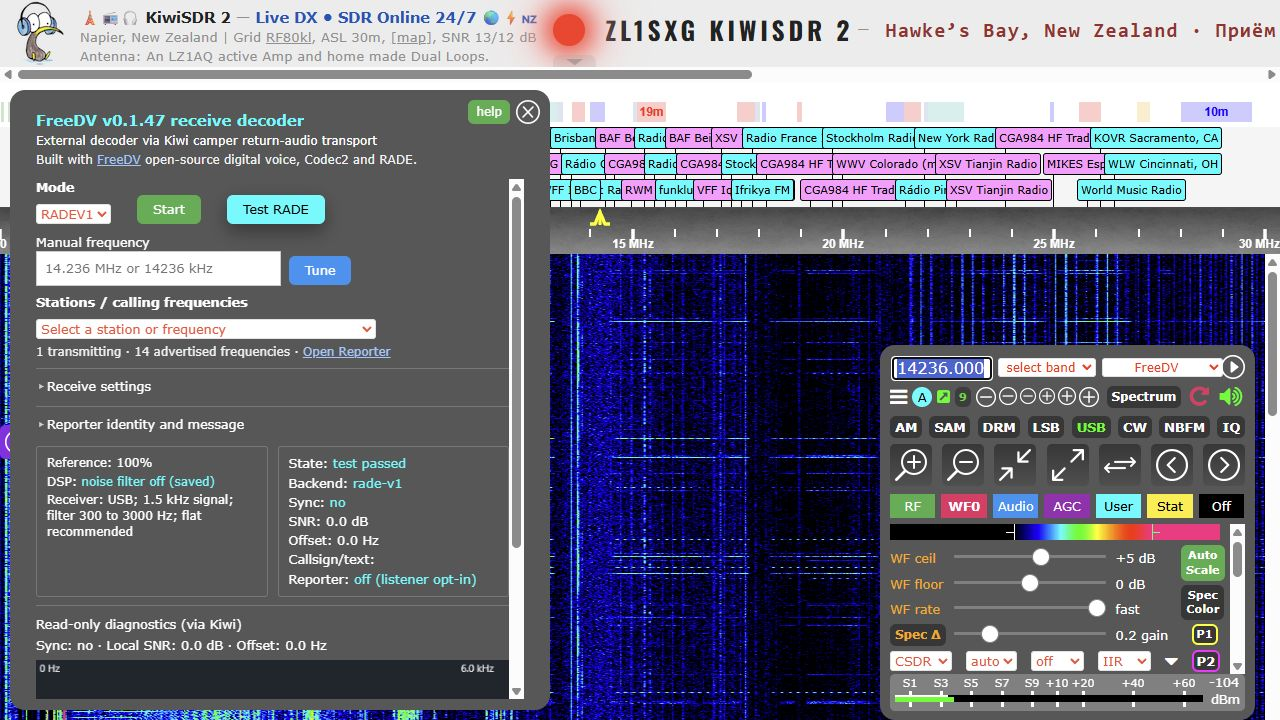
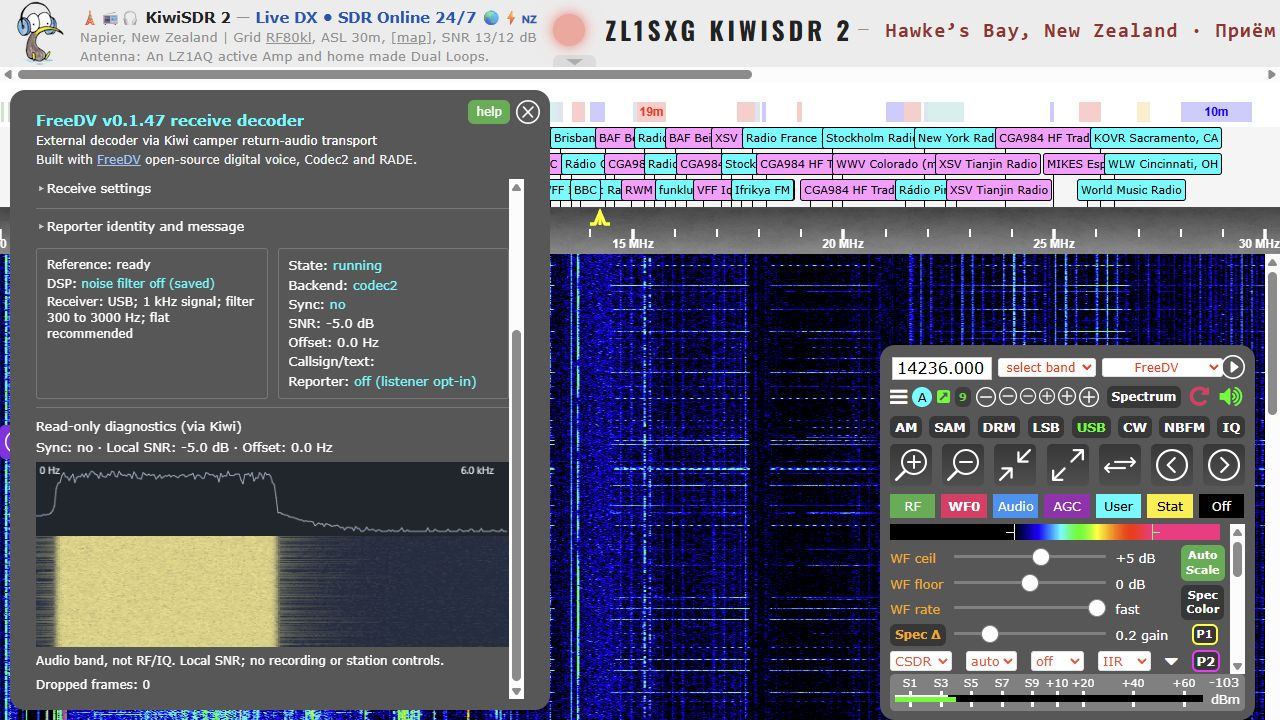
Record proxy browser acceptance and ten-minute stability evidence

diff --git a/docs/deployment-status.md b/docs/deployment-status.md
@@ -14,26 +14,54 @@ and no AI-64 local-decoder service is enabled.
 ## Live state
 
 - KiwiSDR 2 firmware: 1.902
-- active Kiwi release: `freedv-v0-1-46`
+- active Kiwi release: `freedv-v0-1-47`
 - active Kiwi SHA-256:
[1 lines of base64/hex data omitted]
-- Kiwi BuildID: `fbd7edd4821b88eb6e7fbe94f231bef5c2353615`
[1 lines of base64/hex data omitted]
+- Kiwi BuildID: `aa07cfec13efa566dcee38843ebbcd850e00f5e4`
 - retained stock baseline SHA-256:
[1 lines of base64/hex data omitted]
-- decoder-guest release: `0.1.40`
+- decoder-guest release: `0.1.41`
 - decoder binary SHA-256:
[2 lines of base64/hex data omitted]
 - Reporter sidecar SHA-256:
[1 lines of base64/hex data omitted]
 - Reporter client: `KiwiSDR-FreeDV/0.1.37`
-- decoder dashboard assets: management and public `0.1.40`
-- decoder-guest snapshot: `pre-decoder-v0-1-40`
+- decoder dashboard assets: management and public `0.1.41`
+- decoder-guest snapshot: `pre-decoder-v0-1-41`
 - RADEV1: compiled and enabled by matching decoder/Kiwi gates
 - RADEV2: experimental recorded-reference option enabled on this installation;
   independently off by default for new installations; RADEV1 remains default
 - normal idle state: Kiwi connected, not camped, zero sessions; decoder health
   reports the Reporter sidecar disabled while the opted-in extension panel shows
   `enabled (idle)` and no station presence is published
+
+## Kiwi-proxy diagnostics v0.1.47 / decoder v0.1.41
+
+The read-only in-extension view was exercised through John’s public Kiwi
+proxy in Chromium. Both 700D and RADEV1 reference tests passed, with local SNR
+around 30.6 dB and 35.4 dB respectively. The bounded spectrum/waterfall rendered,
+collapse paused rendering, and the camper recovered after a controlled decoder
+restart without restarting Kiwi. No browser warnings/errors were recorded.
+
+There are no new decoder listeners or firewall rules. Health and standalone
+spectator listeners remain loopback-only; the full management dashboard remains
+LAN-only. The new view uses the authenticated, generation-checked status path.
+
+Both 41-sample ten-minute active-session soaks passed on 2026-10-15 NZDT
+(2026-10-14 18:20:35–18:30:35 UTC for the decoder, 18:20:50–18:30:50 UTC
+for Kiwi). All audio input/return drop, underrun and reconnect counters stayed
+zero; services, root HTML, `/status`, camper state and version checks stayed
+healthy, with no critical journal matches or orphan deployment wrappers.
+Stop/Close returned the decoder to zero sessions and no camper. The public
+browser had no warnings/errors. The final decoder binary checksum above
+includes restart-safe relay sequences.
+
+Sampled daemon RSS was approximately 10 MB and total process CPU under 2% of
+one core during this 700D session; this is not a formal incremental overhead
+benchmark. Firefox/Edge, mobile widths and multi-user load testing have not
+been claimed for this update. The previous accepted Kiwi and the decoder
+0.1.40 rollback snapshot are retained; the superseded pre-0.1.40 snapshot was
+removed after acceptance.
 
 ## Diagnostics v0.1.40 and Reporter reception acceptance
 

diff --git a/docs/rollback.md b/docs/rollback.md
@@ -1,5 +1,11 @@
 # Backup and rollback runbook
 
+For the Kiwi-proxy diagnostics release, the immediate receiver rollback is
+`freedv-v0-1-46` and the decoder guest’s pre-upgrade snapshot retains service
+0.1.40. Use the original pre-upgrade file backup or that snapshot, not an
+intermediate verification-build backup. The relay adds no firewall rules,
+public decoder ports or configuration secrets that need to be removed.
+
 ## Preferred full-recovery gate
 
 The guided installer repeats this risk notice and refuses to continue until
